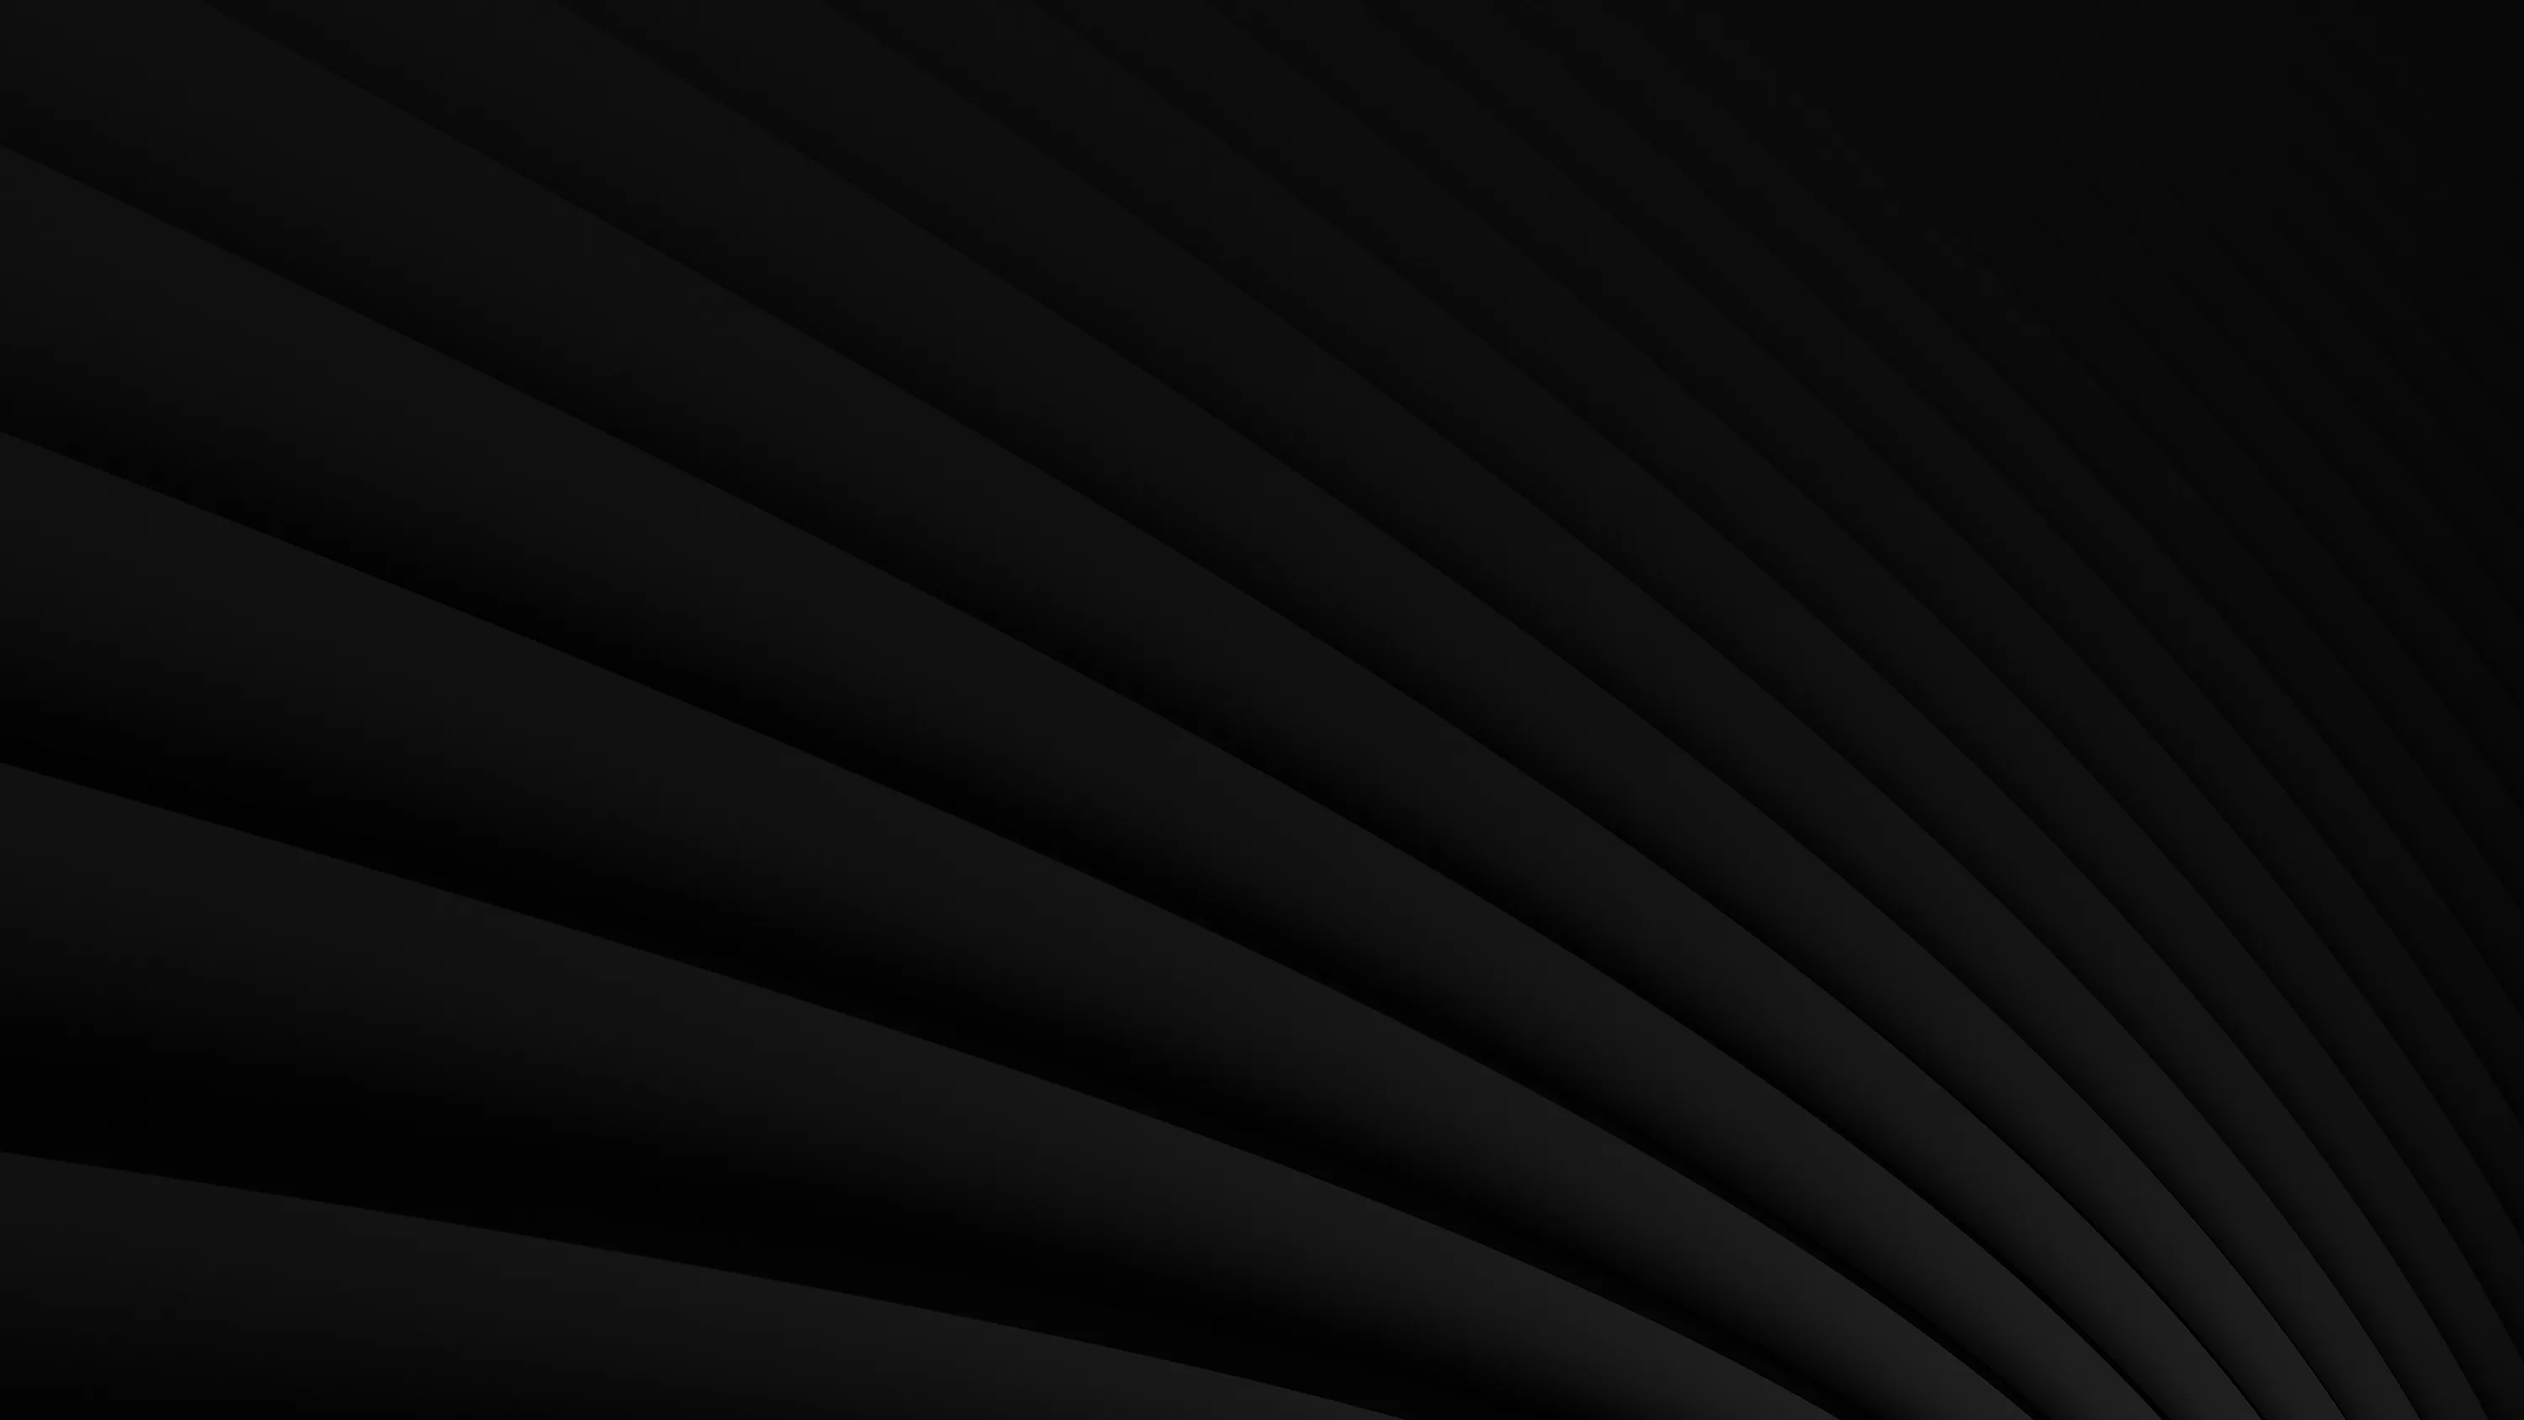
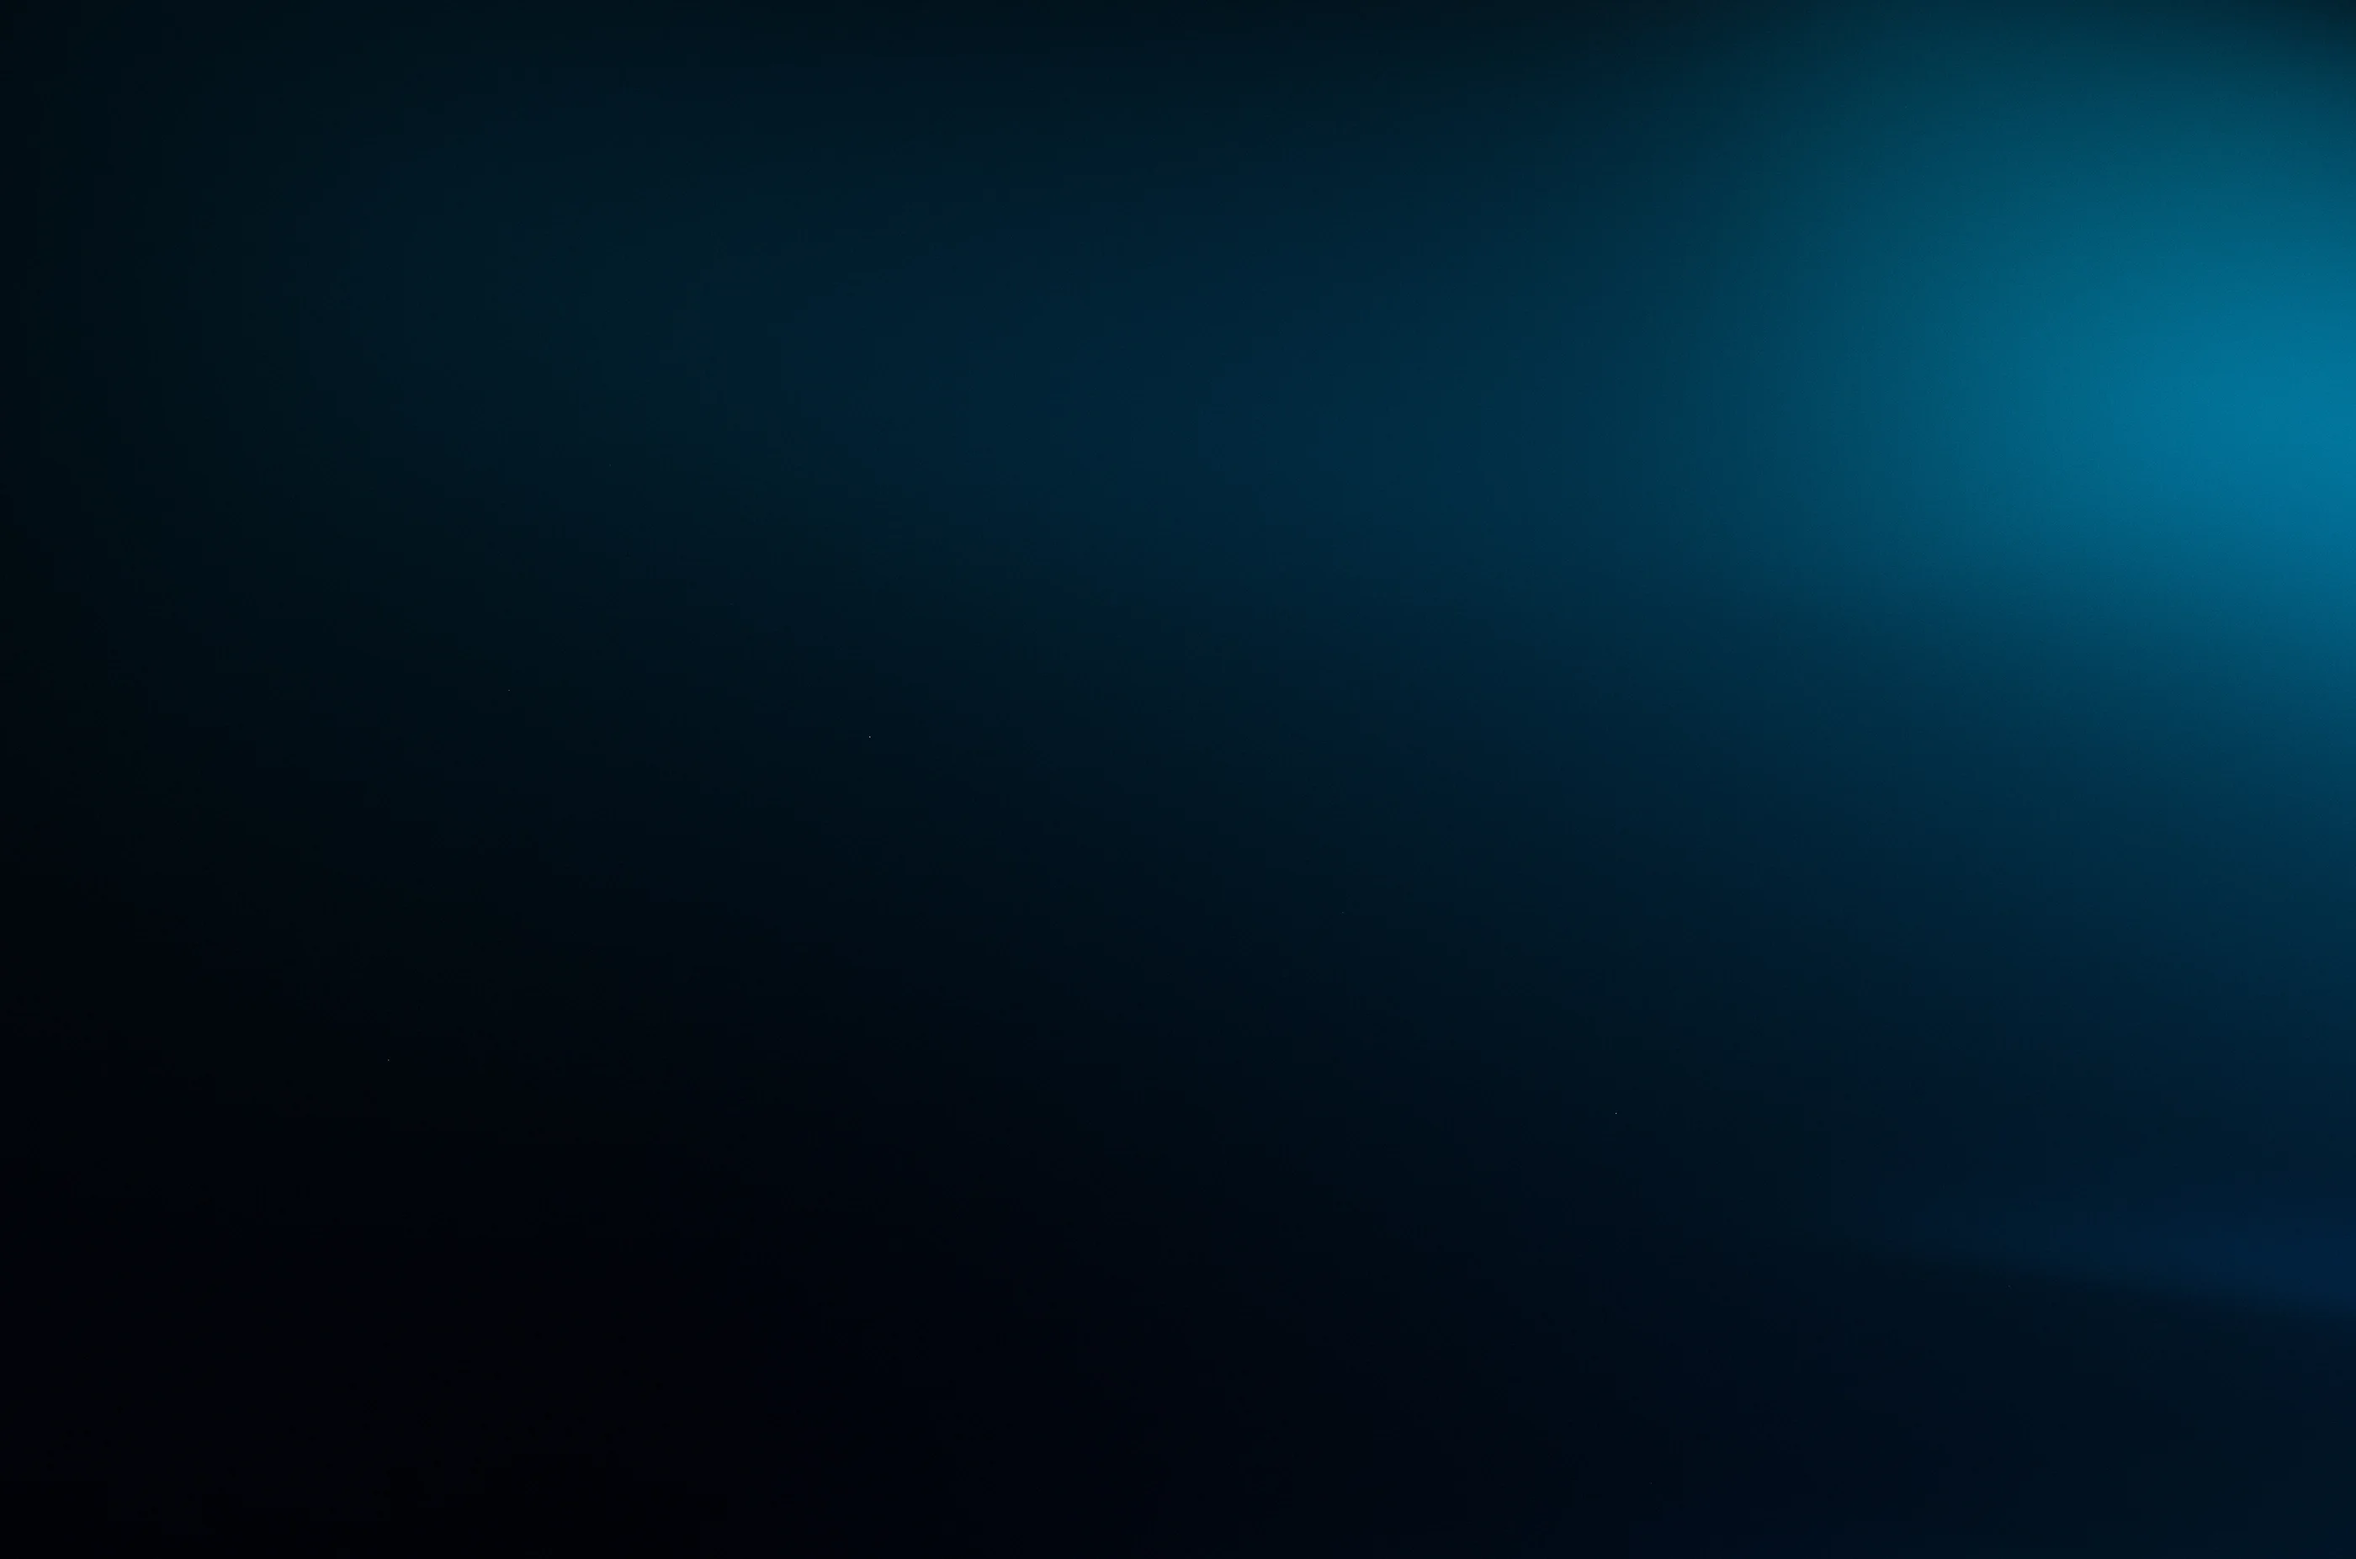
Ny bakgrund: mörkblått med ljus uppe till höger
Claude-Session: https://claude.ai/code/session_01YEL7PBCsZ3Pru2oBr2v8E4

diff --git a/server/sajtvakt_server/static/style.css b/server/sajtvakt_server/static/style.css
@@ -375,9 +375,9 @@ details.use summary::-webkit-details-marker { display: none; }
 .cols .main-col > .col-head, .side-col section > .col-head, .side-col section > h2 { padding-bottom: 2px; }
 
 /* ---- bakgrundsbild + glas (backdrop-blur) ---- */
-html { background: #0a0a0a; }
+html { background: #020a10; }
 body { background: transparent; }
-body::before { content: ""; position: fixed; inset: 0; z-index: -1; background: #0a0a0a url(bg.webp?v=2) center / cover no-repeat; pointer-events: none; }
+body::before { content: ""; position: fixed; inset: 0; z-index: -1; background: #020a10 url(bg.webp?v=3) center / cover no-repeat; pointer-events: none; }
 .side { background: rgba(10, 12, 13, .45); border-right-color: rgba(255, 255, 255, .06); -webkit-backdrop-filter: blur(22px) saturate(1.2); backdrop-filter: blur(22px) saturate(1.2); }
 .side nav a.on { background: rgba(255, 255, 255, .06); }
 .group, .needs, .log, .card, .flash, .notice, .job {
@@ -514,3 +514,6 @@ input[type=text], input[type=password], input[type=email], input[type=number], i
 .site-row.warn .thumb { box-shadow: 0 0 0 2px rgba(252, 164, 42, .45); }
 .site-row.bad .thumb { box-shadow: 0 0 0 2px rgba(252, 40, 82, .5); }
 .site-row.maint .thumb { box-shadow: 0 0 0 2px rgba(157, 95, 227, .5); }
+
+/* Tiden i Behöver dig syns även mot det ljusare partiet i bakgrunden. */
+.need .w { color: var(--muted); }

diff --git a/server/sajtvakt_server/__init__.py b/server/sajtvakt_server/__init__.py
@@ -1,2 +1,2 @@
 """Sajtvakt – backup, uppdateringar och återställning för WordPress-sajter."""
-__version__ = "0.10.1"
+__version__ = "0.10.2"
